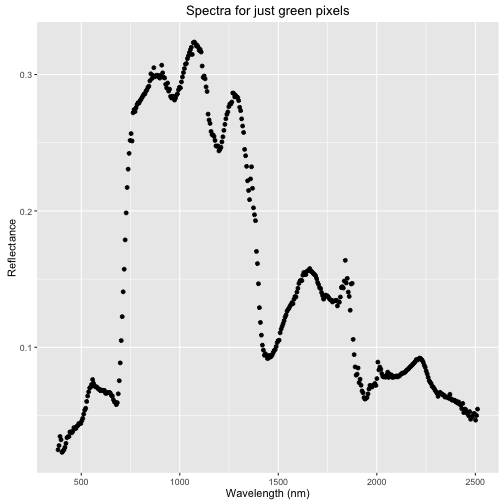
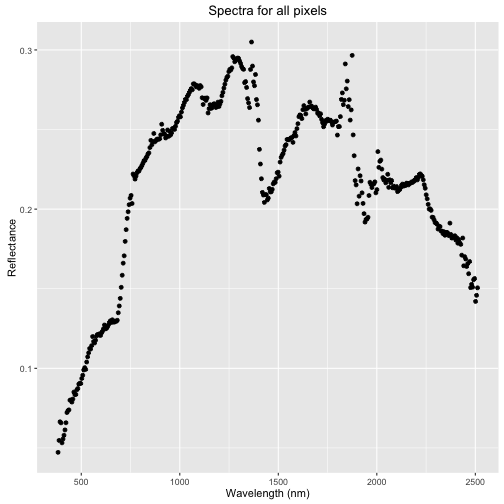
updates to spectral mask

diff --git a/_posts/institute-materials/day1_monday/2016-06-20-extract-spectra-masks.md b/_posts/institute-materials/day1_monday/2016-06-20-extract-spectra-masks.md
@@ -295,32 +295,59 @@ Let's give it a go!
 ## Plot Spectra
 
 
+    index.bounds <- calculate_index_extent(extent(clip.extent),
+                                                h5.ext)
+    
+    # check to see if the mask and the clip extent are the same
+    # if this returns false, the function won't work.
+    extent(clip.extent)==extent(ndvi)
+
+    ## [1] FALSE
+
+    # crop mask to clip extent
+    ndvi.clip <- crop(ndvi, clip.extent)
+    
     # if you run get_spectra on it's own, it returns a min, max or mean value for a raster
-    get_spectra(f, bandNum=1,
+    neonAOP::get_spectra(f, bandNum=1,
                 epsg=32611,
                 subset=TRUE,
                 dims=index.bounds,
-                mask=ndvi, fun=mean)
+                mask=ndvi.clip, fun=mean)
 
-    ## Error in open_band(fileName, bandNum, epsg, subset, dims): unused arguments (subset, dims)
+    ## [1] 0.02524
 
     # provide a list of bands that you wish to extract summary values for
     bands <- (1:426)
     
-    spectra_unmasked <- lapply(bands, FUN = get_spectra,
+    spectra_unmasked <- lapply(bands, FUN = neonAOP::get_spectra,
                   fileName=f, epsg=32611,
                   subset=TRUE,
                   dims=index.bounds,
                   fun=mean)
+    
+    head(spectra_unmasked)
 
-    ## Error in open_band(fileName, bandNum, epsg, subset, dims): unused arguments (subset, dims)
+    ## [[1]]
+    ## [1] 0.04723
+    ## 
+    ## [[2]]
+    ## [1] 0.05474
+    ## 
+    ## [[3]]
+    ## [1] 0.06643
+    ## 
+    ## [[4]]
+    ## [1] 0.06576
+    ## 
+    ## [[5]]
+    ## [1] 0.05321
+    ## 
+    ## [[6]]
+    ## [1] 0.0556
 
     # reformat the output list
     spectra_unmasked <- data.frame(unlist(spectra_unmasked))
     spectra_unmasked$wavelength <- wavelengths
-
-    ## Error in `$<-.data.frame`(`*tmp*`, "wavelength", value = structure(c(382.270008325577, : replacement has 426 rows, data has 852
-
     names(spectra_unmasked)[1] <- "reflectance"
     
     # plot spectra
@@ -330,23 +357,20 @@ Let's give it a go!
           ylab="Reflectance",
           main="Spectra for all pixels")
 
-    ## Error: Aesthetics must be either length 1 or the same as the data (852): x, y
+![ ]({{ site.baseurl }}/images/rfigs/institute-materials/day1_monday/extract-spectra-masks/plot-spectra-unmasked-1.png)
 
     # run get_spectra for each band to get an average spectral signature
     # because we've specified a mask, it will only return values for pixels that are not
     # in masked areas
-    spectra_masked <- lapply(bands, FUN = get_spectra,
+    spectra_masked <- lapply(bands, FUN = neonAOP::get_spectra,
                   fileName=f, epsg=32611,
                   subset=TRUE,
                   dims=index.bounds,
-                  mask=ndvi, fun=mean)
-
-    ## Error in open_band(fileName, bandNum, epsg, subset, dims): unused arguments (subset, dims)
-
+                  mask=ndvi.clip, fun=mean)
+    
     spectra_masked <- clean_spectra(spectra_masked, wavelengths)
-
-    ## Error in `$<-.data.frame`(`*tmp*`, "wavelength", value = structure(c(382.270008325577, : replacement has 426 rows, data has 852
-
+    
+    
     # plot spectra
     qplot(spectra_masked$wavelength,
           y=spectra_masked$reflectance,
@@ -354,4 +378,4 @@ Let's give it a go!
           ylab="Reflectance",
           main="Spectra for just green pixels")
 
-![ ]({{ site.baseurl }}/images/rfigs/institute-materials/day1_monday/extract-spectra-masks/plot-spectra-unmasked-1.png)
+![ ]({{ site.baseurl }}/images/rfigs/institute-materials/day1_monday/extract-spectra-masks/plot-spectra-unmasked-2.png)

diff --git a/_posts/institute-materials/day1_monday/2016-06-20-subset-h5-file-R.md b/_posts/institute-materials/day1_monday/2016-06-20-subset-h5-file-R.md
@@ -170,13 +170,13 @@ signature. For example, a plot boundary.
     bands <- list(19,34,58)
     # within the clipping extent
     index.bounds <- calculate_index_extent(extent(clip.extent),
-                                                h5.ext)
+                  h5.ext)
     # clip out raster
     rgbRast.clip <- neonAOP::create_stack(file=f,
-                      bands=bands,
-                      epsg=epsg,
-                      subset=TRUE,
-                      dims=index.bounds)
+                bands=bands,
+                epsg=epsg,
+                subset=TRUE,
+                dims=index.bounds)
     
     plotRGB(rgbRast.clip,
             stretch="lin")
